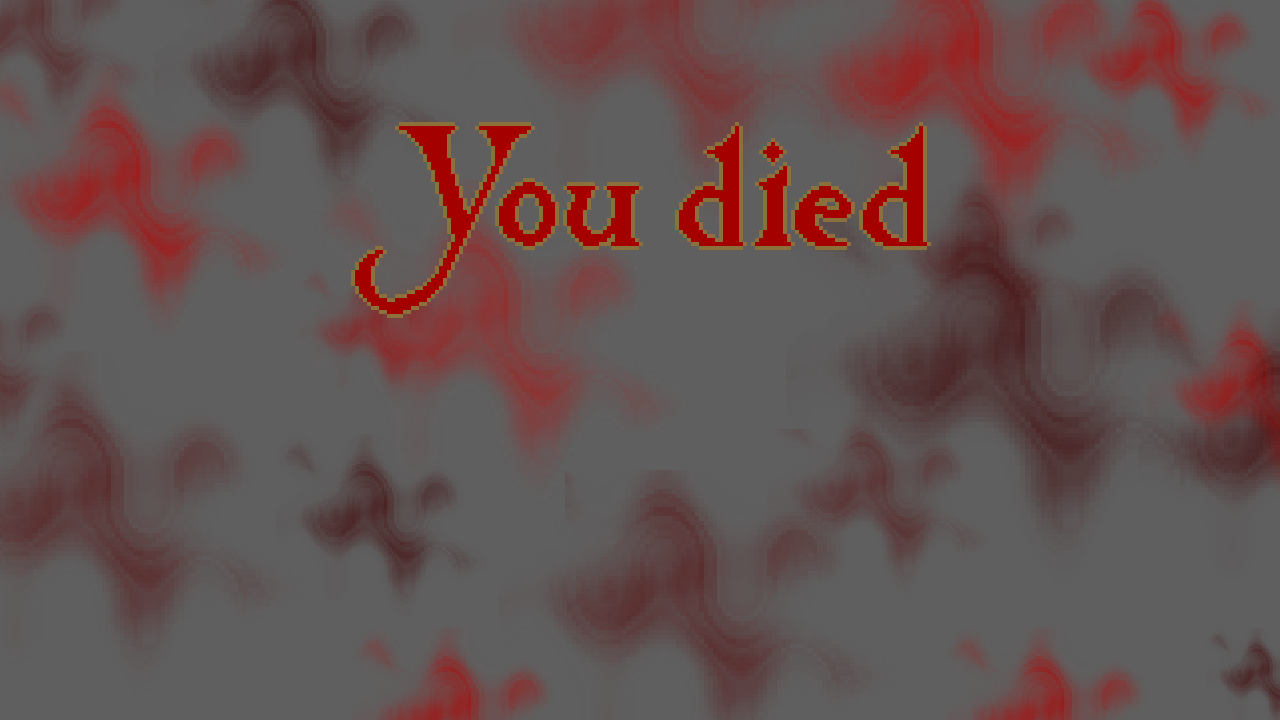
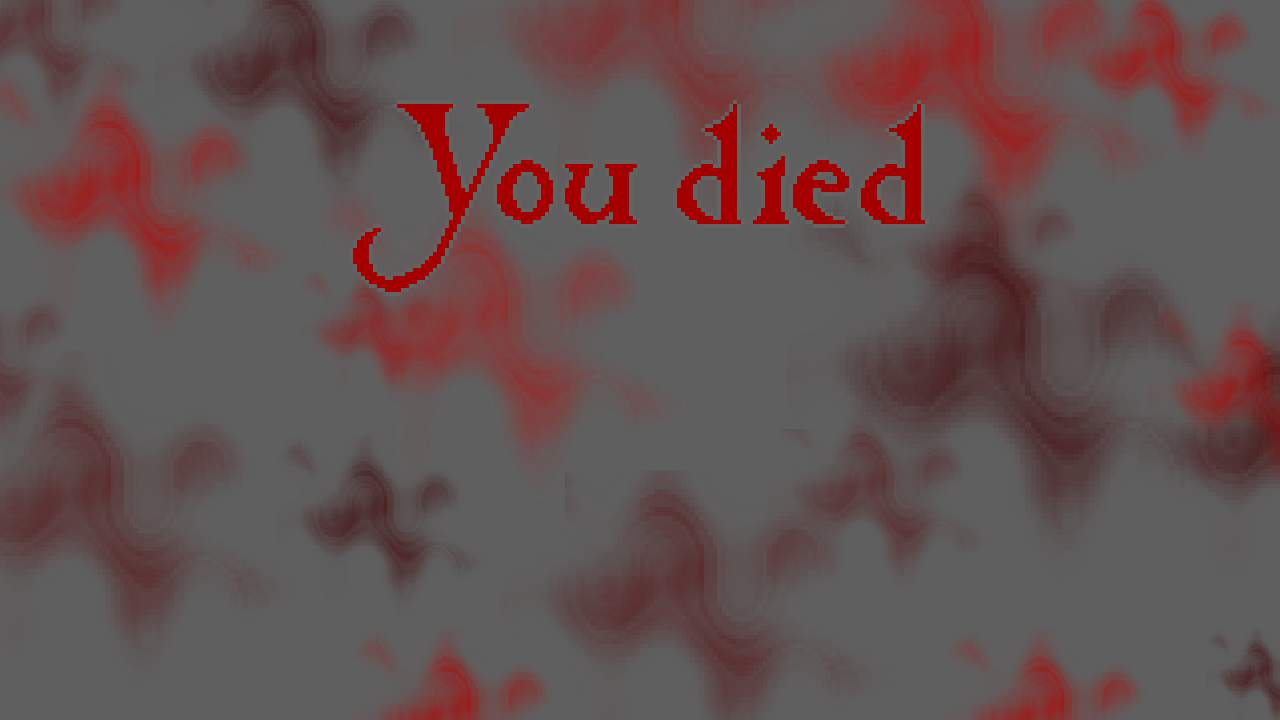
Update 'You died' screens

Changed region(s): [[0.25, 0.1222, 0.5, 0.4583], [0.5312, 0.1528, 0.75, 0.3667]]

diff --git a/src/ScreenOverlays/ScreenOverlay.cpp b/src/ScreenOverlays/ScreenOverlay.cpp
@@ -3,6 +3,7 @@
 #include "ScreenOverlays/WindowScreenOverlay.h"
 #include "TextProvider.h"
 #include "Enums/EnumNames.h"
+#include "Enums/Language.h"
 #include "Item.h"
 #include "Structs/SpellData.h"
 #include "GUI/Hints.h"
@@ -194,9 +195,17 @@ ScreenOverlay* ScreenOverlay::createGameOverScreenOverlay() {
 	gameOverScreenOverlay->setTitleColor(COLOR_BAD);
 	gameOverScreenOverlay->setTitleCharacterSize(56);
 
-	gameOverScreenOverlay->setTitle("YouDied");
+	Language language = g_resourceManager->getConfiguration().language;
+	if (language == Language::Lang_EN) {
+		gameOverScreenOverlay->setTexture(ResourceID::Texture_screen_gameover_en);
+	}
+	else if (language == Language::Lang_DE) {
+		gameOverScreenOverlay->setTexture(ResourceID::Texture_screen_gameover_de);
+	}
+	else if (language == Language::Lang_CH) {
+		gameOverScreenOverlay->setTexture(ResourceID::Texture_screen_gameover_ch);
+	}
 
-	gameOverScreenOverlay->setTexture(ResourceID::Texture_screen_gameover);
 	gameOverScreenOverlay->setPermanent();
 
 	return gameOverScreenOverlay;

diff --git a/src/ResourceManager.cpp b/src/ResourceManager.cpp
@@ -98,6 +98,9 @@ void ResourceManager::init() {
 		{ ResourceID::Texture_screen_error_fileNotFound, "res/assets/screens/screen_error_filenotfound.png" },
 		{ ResourceID::Texture_screen_error_dataCorrupted, "res/assets/screens/screen_error_datacorrupted.png" },
 		{ ResourceID::Texture_screen_gameover, "res/assets/screens/screen_gameover.png" },
+		{ ResourceID::Texture_screen_gameover_en, "res/assets/screens/screen_gameover_en.png" },
+		{ ResourceID::Texture_screen_gameover_de, "res/assets/screens/screen_gameover_de.png" },
+		{ ResourceID::Texture_screen_gameover_ch, "res/assets/screens/screen_gameover_ch.png" },
 		{ ResourceID::Texture_screen_overlay, "res/assets/screens/screen_overlay.png" },
 		{ ResourceID::Texture_screen_overlay_stunned, "res/assets/screens/screen_overlay_stunned.png" },
 		{ ResourceID::Texture_screen_overlay_feared, "res/assets/screens/screen_overlay_feared.png" },

diff --git a/include/Enums/ResourceID.h b/include/Enums/ResourceID.h
@@ -59,6 +59,9 @@ enum class ResourceID {
 	Texture_screen_error_fileNotFound,
 	Texture_screen_error_dataCorrupted,
 	Texture_screen_gameover,
+	Texture_screen_gameover_en,
+	Texture_screen_gameover_de,
+	Texture_screen_gameover_ch,
 	Texture_screen_overlay,
 	Texture_screen_overlay_stunned,
 	Texture_screen_overlay_feared,
